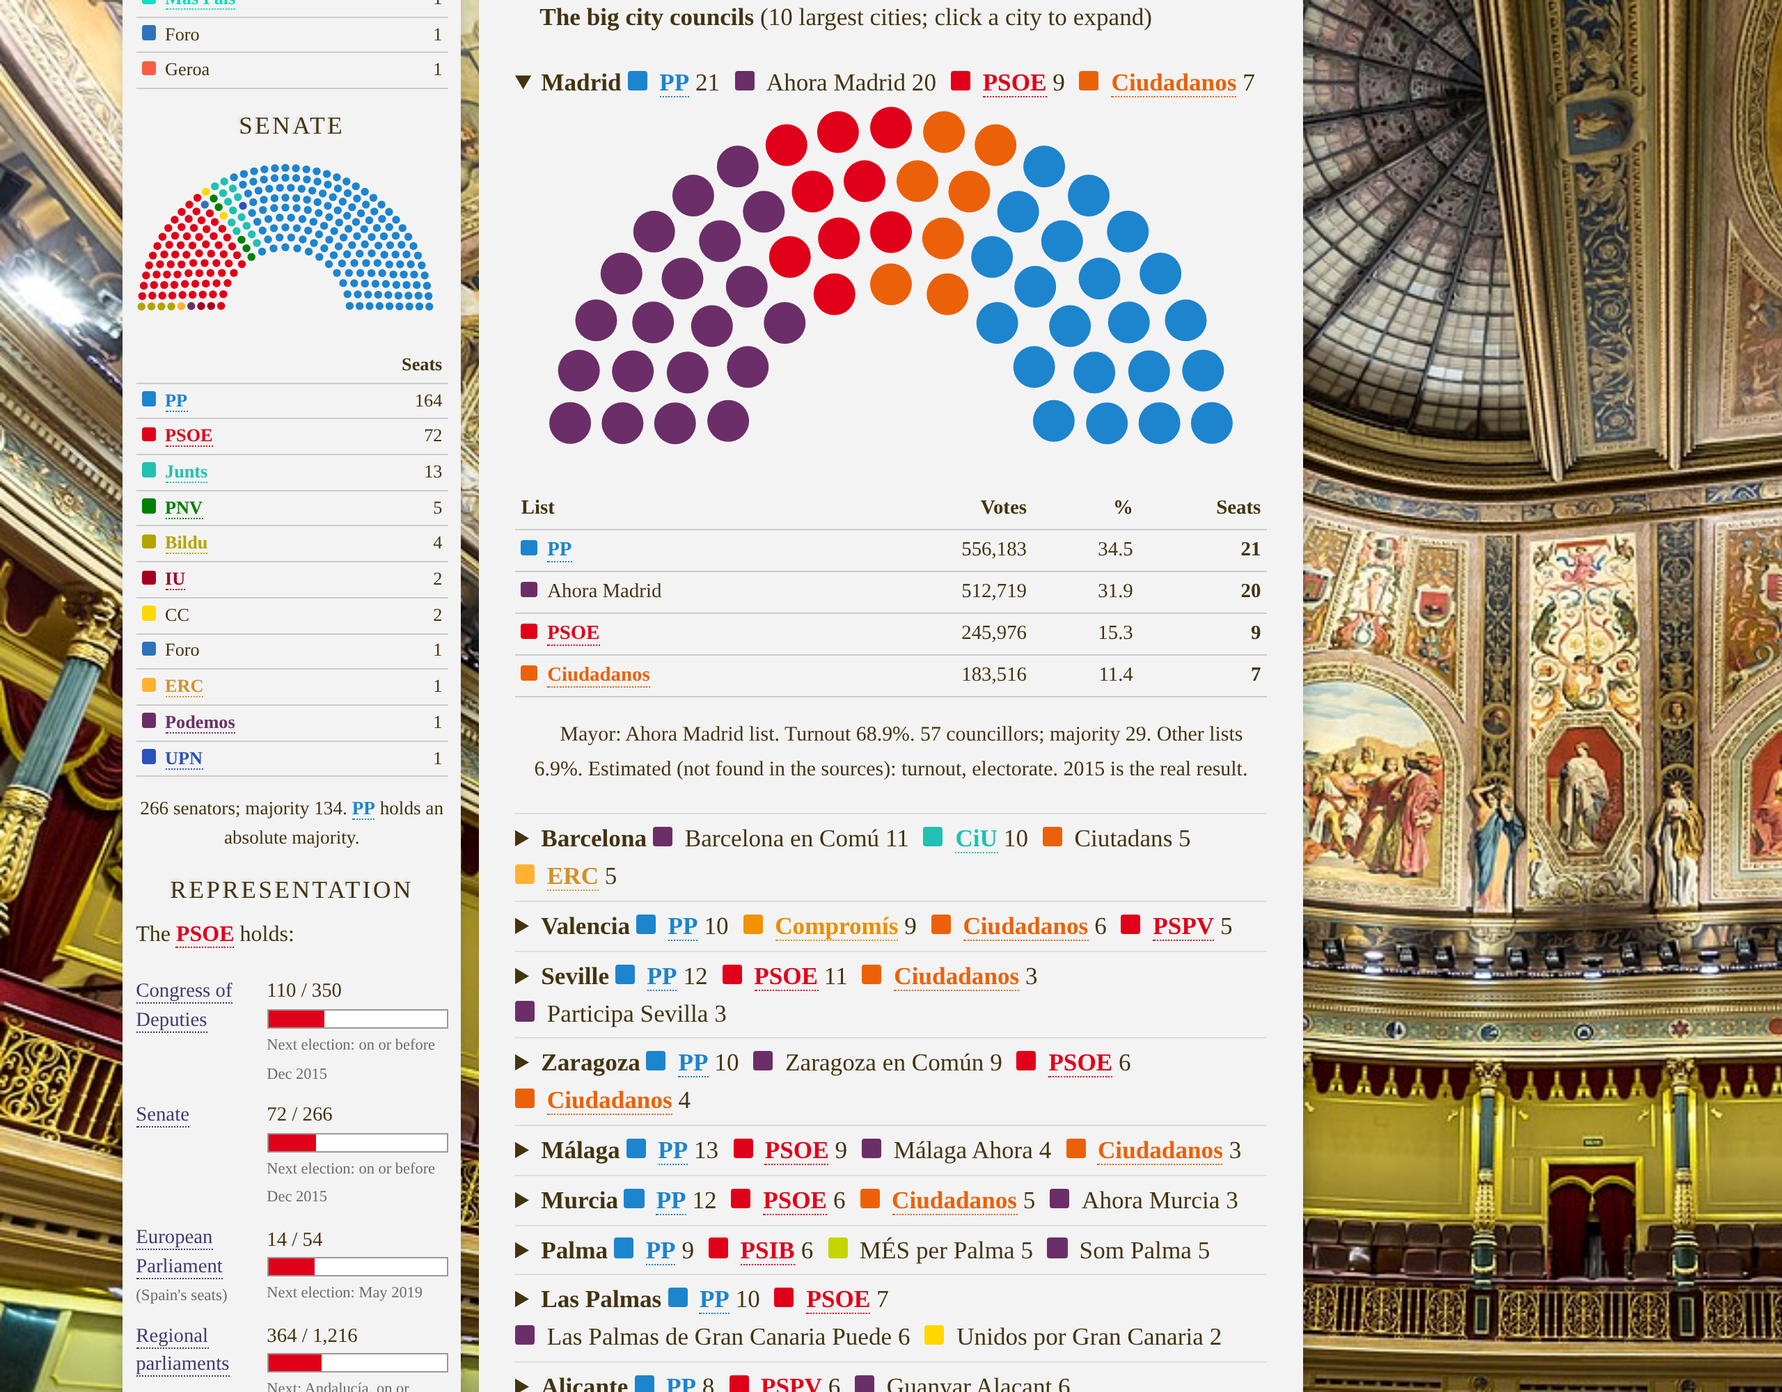
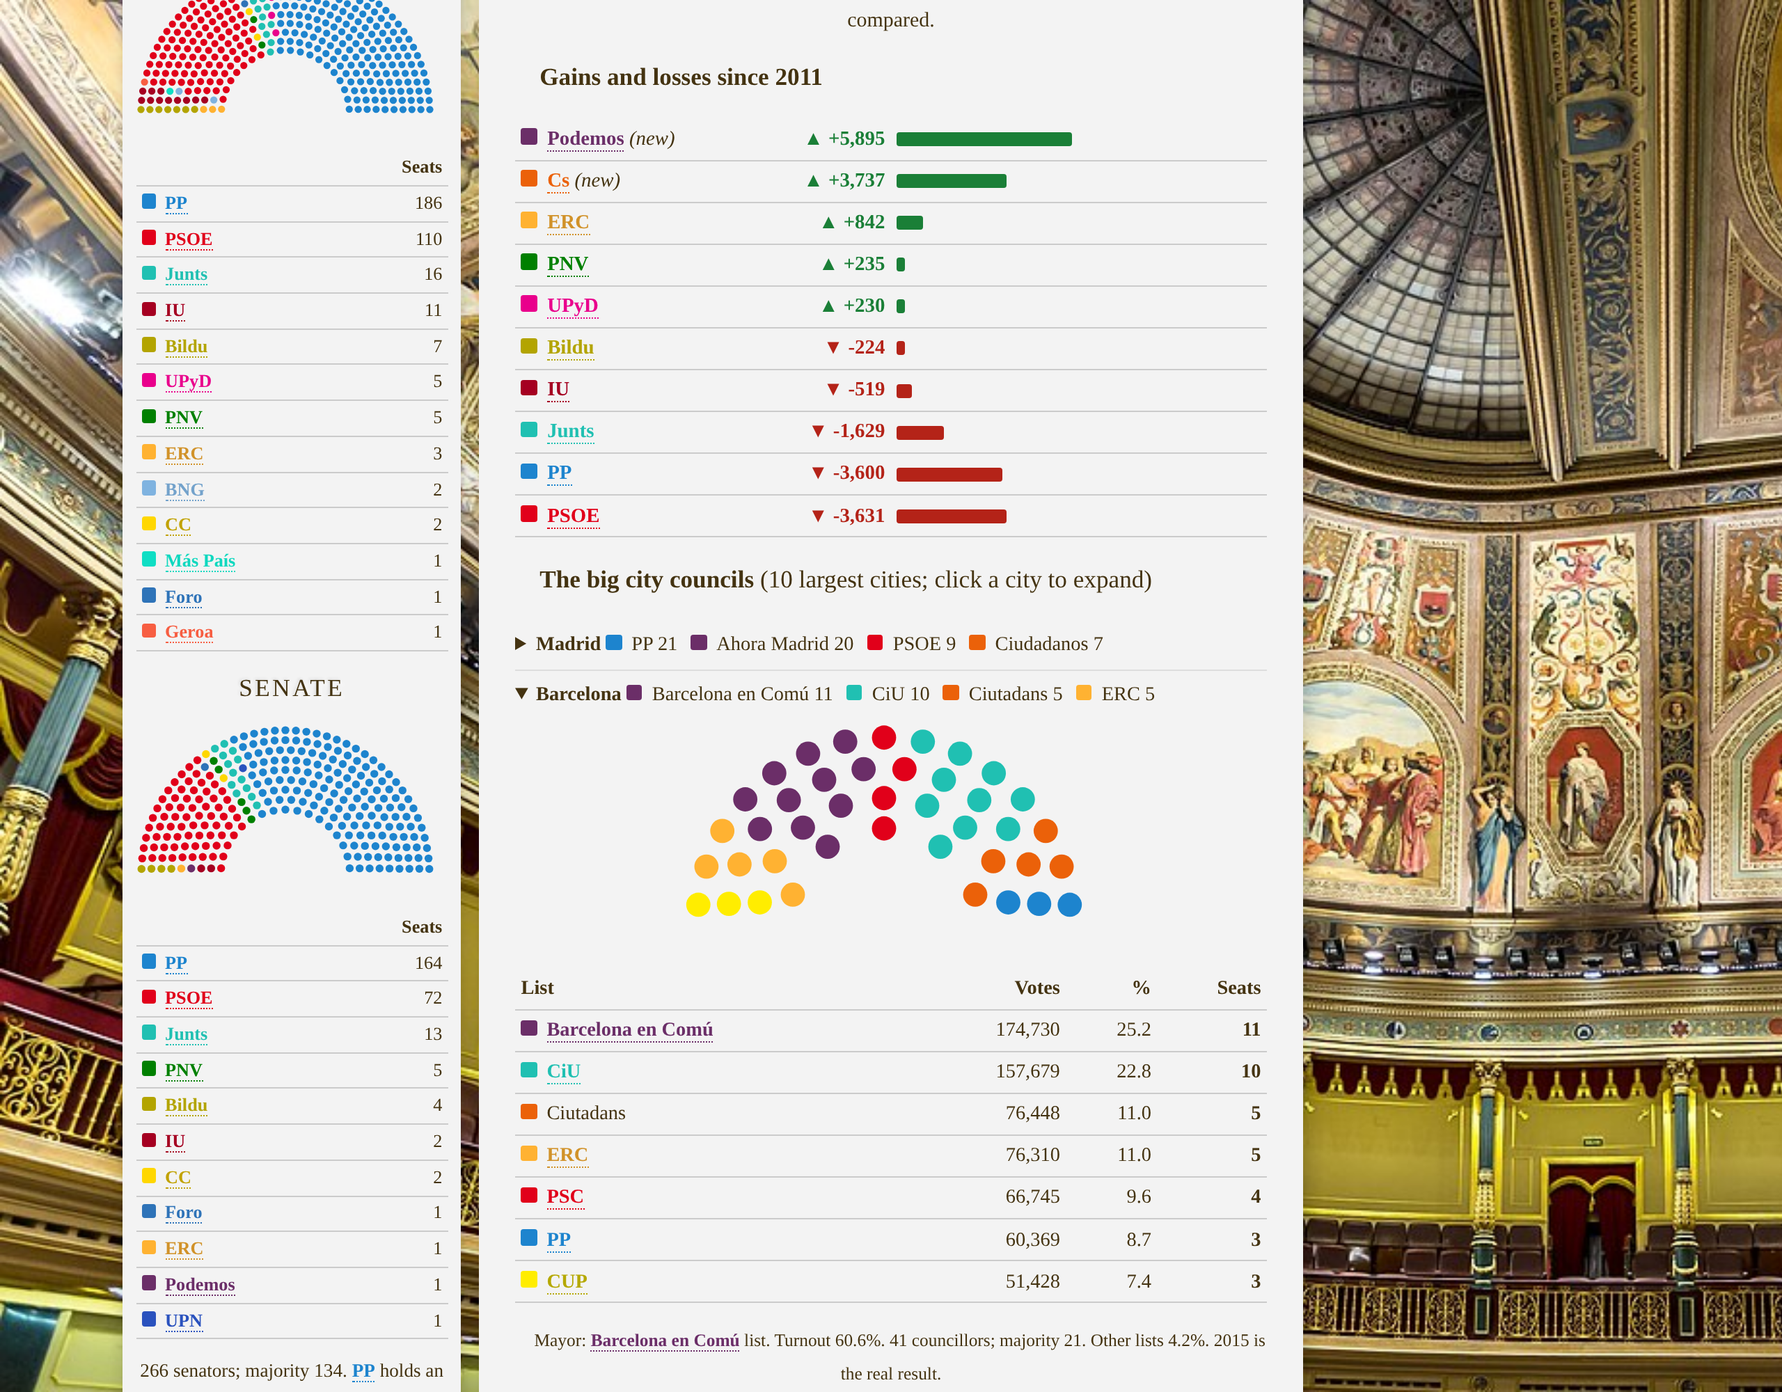
Cards for every party, alliance and Junts pel Sí; city panel diagram, text size and click fix
Claude-Session: https://claude.ai/code/session_016UUCxT4xEXWBLWXGxxaQNk

diff --git a/out/html/spain/entities.js b/out/html/spain/entities.js
@@ -411,10 +411,66 @@
     [['PSOE-M'], 'Partido Socialista Obrero Español de la Comunidad de Madrid', 'Madrid', 'The PSOE in the Madrid region, out of power there since 1995.', 'es:Partido Socialista de Madrid']
   ];
 
+
+  // Alliances, joint lists and smaller parties: their own card, in the
+  // colour of the party they belong to or are counted with.
+  // [names], party id (colour), full name, kind, note, Wikipedia title
+  var ORGS = [
+    // Podemos's alliances
+    [['Unidos Podemos'], 'up', 'Unidos Podemos', 'Electoral alliance, 2016', 'Podemos\'s joint list with Izquierda Unida and Equo for the June 2016 general election, led by Pablo Iglesias with Alberto Garzón. It won 71 seats, the same as Podemos and IU separately in 2015, and failed to overtake the PSOE.', 'Unidos Podemos'],
+    [['Unidas Podemos'], 'up', 'Unidas Podemos', 'Electoral alliance, 2019', 'The same alliance of Podemos, IU and Equo renamed for 2019. It entered the coalition government with the PSOE in January 2020.', 'Unidas Podemos'],
+    [['Sumar'], 'up', 'Sumar', 'Electoral alliance, 2023', 'Yolanda Díaz\'s platform, joined by Podemos, IU, Más País, Compromís, the Comuns and others for the July 2023 election. Podemos left it in December 2023.', 'Sumar (electoral platform)'],
+    [['En Comú Podem'], 'up', 'En Comú Podem', 'Catalan alliance', 'The Catalan alliance of Podemos with ICV, EUiA and Barcelona en Comú, led by Xavier Domènech: first in Catalonia in the 2015 and 2016 general elections.', 'En Comú Podem'],
+    [['Catalunya en Comú', 'Comuns'], 'up', 'Catalunya en Comú', 'Catalan party', 'Ada Colau\'s party (2017), heir of ICV and Barcelona en Comú; allied with Podemos in Catalunya en Comú–Podem.', 'Catalunya en Comú'],
+    [['Catalunya Sí que es Pot'], 'up', 'Catalunya Sí que es Pot', 'Catalan alliance, 2015', 'The alliance of Podemos, ICV and EUiA for the September 2015 Catalan election. It won 11 seats, below expectations.', 'Catalunya Sí que es Pot'],
+    [['En Marea'], 'up', 'En Marea', 'Galician alliance', 'The Galician alliance of Podemos, Anova, Esquerda Unida and the city "mareas": second in Galicia in the 2015 and 2016 general elections.', 'En Marea'],
+    [['Elkarrekin Podemos'], 'up', 'Elkarrekin Podemos', 'Basque alliance', 'Podemos with Ezker Anitza-IU and Equo in the Basque Country (2016 onwards).', 'Elkarrekin Podemos'],
+    [['Adelante Andalucía'], 'aa', 'Adelante Andalucía', 'Andalusian alliance, 2018', 'Podemos Andalucía (Teresa Rodríguez) and IU (Antonio Maíllo) together for the December 2018 Andalusian election: 17 seats. Rodríguez later took the name for her own party.', 'Adelante Andalucía'],
+    [['Compromís–Podemos', 'És el moment', 'A la valenciana'], 'up', 'Compromís–Podemos–És el moment', 'Valencian alliance', 'Compromís and Podemos together in the Valencian Community for the 2015 and 2016 general elections.', 'Compromís–Podemos–És el moment'],
+    [['Ahora Madrid'], 'up', 'Ahora Madrid', 'Municipal alliance (Madrid)', 'Manuela Carmena\'s platform for the 2015 Madrid city election, built by Podemos with Ganemos Madrid and parts of IU and Equo. Mayor 2015–19; it became Más Madrid in 2019.', 'Ahora Madrid'],
+    [['Barcelona en Comú'], 'up', 'Barcelona en Comú', 'Municipal alliance (Barcelona)', 'Ada Colau\'s platform (2015), with ICV-EUiA, Podemos, Equo and Procés Constituent. Mayor 2015–23.', 'Barcelona en Comú'],
+    [['Zaragoza en Común'], 'up', 'Zaragoza en Común', 'Municipal alliance (Zaragoza)', 'Pedro Santisteve\'s platform (2015), with Podemos, IU, Equo and others. Mayor 2015–19.', 'es:Zaragoza en Común'],
+    [['València en Comú'], 'up', 'València en Comú', 'Municipal alliance (Valencia)', 'The Podemos-backed list in Valencia in 2015 (3 seats); it backed Joan Ribó of Compromís as mayor.', 'es:València en Comú'],
+    [['Participa Sevilla'], 'up', 'Participa Sevilla', 'Municipal alliance (Seville)', 'The Podemos-backed list in Seville in 2015 (3 seats); it backed the socialist Juan Espadas as mayor.', 'es:Participa Sevilla'],
+    [['Málaga Ahora'], 'up', 'Málaga Ahora', 'Municipal alliance (Málaga)', 'The Podemos-backed list in Málaga in 2015 (4 seats).', 'es:Málaga Ahora'],
+    [['Som Palma'], 'up', 'Som Palma', 'Municipal alliance (Palma)', 'The Podemos-backed list in Palma in 2015 (5 seats); part of the left-wing pact that governed the city.', 'es:Som Palma'],
+    [['Guanyar Alacant'], 'up', 'Guanyar Alacant', 'Municipal alliance (Alicante)', 'The Podemos-backed list in Alicante in 2015 (6 seats), with EU; part of the "tripartito" that governed until 2018.', 'es:Guanyar Alacant'],
+    [['Cambiemos Murcia'], 'iu', 'Cambiemos Murcia', 'Municipal alliance (Murcia)', 'The list of IU, Equo and citizen groups in Murcia in 2015 (3 seats).', 'es:Cambiemos Murcia'],
+    [['Ahora Murcia'], 'up', 'Ahora Murcia', 'Municipal alliance (Murcia)', 'Podemos\'s list in Murcia in 2015 (3 seats).', 'es:Ahora Murcia'],
+    [['Las Palmas de Gran Canaria Puede', 'LPGC Puede'], 'up', 'Las Palmas de Gran Canaria Puede', 'Municipal alliance (Las Palmas)', 'The Podemos-backed list in Las Palmas in 2015 (6 seats); part of the city\'s left-wing government.', 'es:Las Palmas de Gran Canaria Puede'],
+    [['Málaga para la Gente'], 'iu', 'Málaga para la Gente', 'Municipal list (Málaga)', 'Izquierda Unida\'s list in Málaga (2 seats in 2015).', 'es:Málaga para la Gente'],
+    [['Más Madrid'], 'mp', 'Más Madrid', 'Party (Madrid)', 'Íñigo Errejón and Manuela Carmena\'s platform (2019), born from Ahora Madrid without Podemos. First in Madrid city in 2019.', 'Más Madrid'],
+    [['Más País'], 'mp', 'Más País', 'Party', 'Errejón\'s national party for the November 2019 election, a split from Podemos; later part of Sumar.', 'Más País'],
+    // the 2015 Catalan independence list
+    [['Junts pel Sí', 'JxSí'], 'jxsi', 'Junts pel Sí', 'Joint list, 2015–17', 'A temporary merger for the plebiscitary Catalan election of 27 September 2015: Artur Mas\'s Convergència and Oriol Junqueras\'s ERC ran together, with Demòcrates and MES, behind the independent Raül Romeva. It won 62 seats and governed with the CUP\'s support. The two parties ran separately again in December 2017 (Junts per Catalunya and ERC).', 'Junts pel Sí'],
+    // smaller and regional parties that can win seats
+    [['Coalición Canaria', 'CC'], 'cc', 'Coalición Canaria', 'Canarian nationalist party', 'The Canarian nationalist centre party, in the Canary Islands government almost continuously since 1993; one or two deputies in Congress, often decisive in investitures.', 'Canarian Coalition'],
+    [['Nueva Canarias', 'NC'], 'nc', 'Nueva Canarias', 'Canarian party', 'A centre-left Canarian nationalist split from CC (2005), strong in Gran Canaria; allied with the PSOE in 2019.', 'New Canaries'],
+    [['Unidos por Gran Canaria'], 'cc', 'Unidos por Gran Canaria', 'Island party', 'A centre-right Gran Canaria party, allied with CC.', 'es:Unidos por Gran Canaria'],
+    [['Agrupación Socialista Gomera', 'ASG'], 'asg', 'Agrupación Socialista Gomera', 'Island party', 'Casimiro Curbelo\'s party on La Gomera, a 2012 split from the PSOE; kingmaker in the Canarian parliament.', 'Gomera Socialist Group'],
+    [['Agrupación Herreña', 'AHI'], 'ahi', 'Agrupación Herreña Independiente', 'Island party', 'The independent party of El Hierro, allied with CC.', 'es:Agrupación Herreña Independiente'],
+    [['Foro Asturias', 'Foro'], 'foro', 'Foro Asturias', 'Asturian party', 'Francisco Álvarez-Cascos\'s 2011 split from the PP in Asturias; one deputy in Congress in 2015–16, in alliance with the PP.', 'Asturias Forum'],
+    [['Geroa Bai', 'Geroa'], 'geroa', 'Geroa Bai', 'Navarrese party', 'Uxue Barkos\'s Basque nationalist coalition in Navarre, around the PNV; President of Navarre 2015–19, then in government with the PSN.', 'Geroa Bai'],
+    [['UPN', 'NA+', 'Navarra Suma'], 'upn', 'Unión del Pueblo Navarro / Navarra Suma', 'Navarrese party', 'The Navarrese centre-right regionalist party, the PP\'s ally in Navarre; ran with the PP and Cs as Navarra Suma (NA+) in 2019.', 'Navarrese People\'s Union'],
+    [['Partido Aragonés', 'PAR'], 'par', 'Partido Aragonés', 'Aragonese party', 'The centre-right Aragonese regionalist party, kingmaker in the Cortes de Aragón for decades.', 'Aragonese Party'],
+    [['Chunta Aragonesista', 'CHA'], 'cha', 'Chunta Aragonesista', 'Aragonese party', 'The left-wing Aragonese nationalist party; allied with the PSOE and in the Aragonese government 2019–23.', 'Chunta Aragonesista'],
+    [['Teruel Existe', 'TE'], 'te', 'Teruel Existe', 'Provincial platform', 'The citizens\' platform of "empty Spain" in Teruel; one deputy from 2019, whose vote invested Sánchez in January 2020.', 'Teruel Existe'],
+    [['Soria ¡Ya!', 'Soria Ya'], 'sy', 'Soria ¡Ya!', 'Provincial platform', 'The Soria platform modelled on Teruel Existe: three seats in the Cortes of Castilla y León in 2022.', 'Soria ¡Ya!'],
+    [['Unión del Pueblo Leonés', 'UPL'], 'upl', 'Unión del Pueblo Leonés', 'Leonese party', 'The party for a separate León region within Castilla y León.', 'Leonese People\'s Union'],
+    [['Por Ávila', 'XAV'], 'xav', 'Por Ávila', 'Provincial party', 'A provincial party in Ávila, a split from the PP.', 'es:Por Ávila'],
+    [['Més per Mallorca', 'MÉS per Mallorca', 'MÉS per Palma', 'Més'], 'mes', 'Més per Mallorca', 'Majorcan party', 'The left-wing Majorcan nationalist party; partner of the PSIB in the Balearic governments of 2015–23.', 'Més per Mallorca'],
+    [['Més per Menorca', 'MxMe'], 'mxme', 'Més per Menorca', 'Menorcan party', 'The left-wing nationalist party of Menorca, allied with Més per Mallorca.', 'Més per Menorca'],
+    [['El Pi'], 'elpi', 'El Pi – Proposta per les Illes', 'Balearic party', 'A centre-right Balearic regionalist party (2013).', 'El Pi'],
+    [['PACMA'], 'pacma', 'PACMA', 'Animal rights party', 'The Animalist Party Against Mistreatment of Animals: a steady 1% nationally, never a deputy.', 'PACMA'],
+    [['Pedro Sánchez List', 'PSL'], 'ps', 'Pedro Sánchez List', 'Party (game only)', 'The party Sánchez founds in this game if he leaves the PSOE. It never existed.', null],
+    [['Podemos (2023)'], 'pod', 'Podemos', 'Party', 'Podemos after its break with Sumar in December 2023, led by Ione Belarra.', 'Podemos (Spanish political party)'],
+    [['CiU', 'Convergència', 'DL'], 'junts', 'Convergència i Unió / Democràcia i Llibertat', 'Catalan party', 'Artur Mas\'s centre-right Catalan nationalist federation; CiU broke up in 2015, Convergència ran as Democràcia i Llibertat in December 2015, became the PDeCAT in 2016 and Junts per Catalunya in 2017.', 'Convergence and Union']
+  ];
+
   // party names as they appear in the text
   var PARTY_NAMES = [
     [['PSOE'], 'psoe'], [['PP', "People's Party", 'Partido Popular', 'PPC', 'PPdeG'], 'pp'],
-    [['Podemos', 'Unidas Podemos', 'Unidos Podemos', 'Sumar', 'En Comú Podem', 'Catalunya en Comú', 'En Marea', 'Elkarrekin Podemos', 'Comuns'], 'up'], [['Ciudadanos', 'Cs'], 'cs'], [['Vox'], 'vox'],
+    [['Podemos', 'Unidas Podemos', 'Unidos Podemos', 'Sumar', 'En Comú Podem', 'Catalunya en Comú', 'En Marea', 'Elkarrekin Podemos', 'Comuns'], 'up'], [['Ciudadanos', 'Cs', 'Ciutadans'], 'cs'], [['Vox'], 'vox'],
     [['IU', 'Izquierda Unida'], 'iu'], [['ERC'], 'erc'], [['Junts', 'JxCat', 'Convergència', 'CiU'], 'junts'],
     [['PNV'], 'pnv'], [['EH Bildu', 'Bildu'], 'bildu'], [['CUP'], 'cup'], [['Coalición Canaria'], 'cc'],
     [['Más País'], 'mp'], [['Compromís'], 'compromis'], [['UPN'], 'upn'], [['PRC'], 'prc'], [['BNG'], 'bng'],
@@ -659,9 +715,38 @@
   AFFILIATES.forEach(function (a, i) {
     a[0].forEach(function (n) { INDEX[n] = { kind: 'affiliate', i: i }; names.push(n); });
   });
+  ORGS.forEach(function (o, i) {
+    o[0].forEach(function (n) { if (!INDEX[n]) { names.push(n); } INDEX[n] = { kind: 'org', i: i }; });
+  });
   TOPICS.forEach(function (t, i) {
     t[0].forEach(function (n) { if (!INDEX[n]) { INDEX[n] = { kind: 'topic', i: i }; names.push(n); } });
   });
+
+  // Any other party that has won seats in a regional parliament in the
+  // data gets a plain card: its name, and where it sits.
+  var SEAT_PARTIES = {};
+  (function () {
+    var R = null;
+    try { R = (typeof module !== 'undefined' && module.exports) ? require('./regional_data.js') : root.SPAIN_REGIONAL_DATA; } catch (e) { R = null; }
+    var UI = root.SpainUI || ((typeof module !== 'undefined' && module.exports) ? require('./spain_ui.js') : null);
+    if (!R || !R.regions || !UI) { return; }
+    Object.keys(R.regions).forEach(function (reg) {
+      Object.keys(R.regions[reg]).forEach(function (date) {
+        var e = R.regions[reg][date], tot = {}, all = 0;
+        Object.keys(e.districts || {}).forEach(function (d) {
+          e.districts[d].lists.forEach(function (l) { tot[l[0]] = (tot[l[0]] || 0) + l[2]; all += l[2]; });
+        });
+        Object.keys(tot).forEach(function (id) {
+          if (tot[id] / all >= 0.025 && !SEAT_PARTIES[id]) { SEAT_PARTIES[id] = reg; }
+        });
+      });
+    });
+    Object.keys(SEAT_PARTIES).forEach(function (id) {
+      [UI.partyName(id), UI.shortName(id)].forEach(function (n) {
+        if (n && n.length > 1 && !INDEX[n]) { INDEX[n] = { kind: 'seatparty', id: id }; names.push(n); }
+      });
+    });
+  })();
   names.sort(function (a, b) { return b.length - a.length; });
   var esc = function (s) { return s.replace(/[.*+?^${}()|[\]\\]/g, '\\$&'); };
   var RE = null;
@@ -682,6 +767,13 @@
       var fk = FACTION_OF[p[0][0]], fl = fk && FACTION_LABEL[p[1]] ? FACTION_LABEL[p[1]][fk] : (FACTION_NOTE[p[0][0]] || '');
       var wing = fl ? 'Faction: ' + fl + (p[3] ? ' — ' + p[3] : '') : p[3];
       return { kind: 'person', name: p[0][0], party: p[1], role: p[2], wing: wing, wiki: title, img: imgUrl(PERSON_IMG[p[0][0]]) };
+    }
+    if (hit.kind === 'seatparty') {
+      return { kind: 'org', party: hit.id, name: (root.SpainUI || require('./spain_ui.js')).partyName(hit.id), sub: 'Regional party (' + SEAT_PARTIES[hit.id] + ')', note: 'Has won seats in the regional parliament of ' + SEAT_PARTIES[hit.id] + '.', wiki: null };
+    }
+    if (hit.kind === 'org') {
+      var og = ORGS[hit.i];
+      return { kind: 'org', party: og[1], name: og[2], sub: og[3], note: og[4], wiki: og[5] };
     }
     if (hit.kind === 'affiliate') {
       var af = AFFILIATES[hit.i];
@@ -808,6 +900,10 @@
     if (info.kind === 'person') {
       return '<div class="sp-ent-head">' + (info.img ? '<img class="sp-ent-photo" src="' + info.img + '" alt="">' : '') + badge + '<div><strong>' + info.name + '</strong><br>' + pi.name +
         '</div></div><div>' + info.role + '</div>' + (info.wing ? '<div class="sp-ent-wing">' + info.wing + '</div>' : '') + more;
+    }
+    if (info.kind === 'org') {
+      var lg = PARTY_IMG[info.party] ? '<img class="sp-ent-plogo" src="' + imgUrl(PARTY_IMG[info.party]) + '" alt="">' : '<span class="sp-ent-logo" style="background:' + pi.color + '">' + pi.short + '</span>';
+      return '<div class="sp-ent-head">' + lg + '<div><strong>' + info.name + '</strong><br>' + info.sub + '</div></div><div class="sp-ent-desc">' + info.note + '</div>' + more;
     }
     if (info.kind === 'affiliate') {
       return '<div class="sp-ent-head">' + badge + '<div><strong>' + info.name + '</strong><br>Regional federation of the PSOE: ' + info.region +

diff --git a/out/html/spain/game_state.js b/out/html/spain/game_state.js
@@ -3759,8 +3759,8 @@
       var won = c.lists.filter(function (x) { return x.seats > 0; });
       var pm = {}; (c.prev || []).forEach(function (p) { pm[p[0]] = p[1]; });
       var summary = won.slice(0, 4).map(function (x) { return '<span class="sp-vote-chip"><span class="sp-swatch" style="background:' + UI.partyColor(x.party) + '"></span>' + x.label + ' ' + x.seats + '</span>'; }).join(' ');
-      html += '<details class="sp-city"><summary><b>' + name + '</b> ' + summary + '</summary>' +
-        '<svg id="' + id + '-c' + i + '" class="sp-hemicycle"></svg>' +
+      html += '<details class="sp-city"><summary class="sp-no-ent"><b>' + name + '</b> ' + summary + '</summary>' +
+        '<div class="sp-city-chart"><svg id="' + id + '-c' + i + '" class="sp-hemicycle"></svg></div>' +
         '<table class="sp-results sp-compact"><thead><tr><th>List</th><th class="sp-num">Votes</th><th class="sp-num">%</th><th class="sp-num">Seats</th>' + (c.prev ? '<th class="sp-num">±</th>' : '') + '</tr></thead><tbody>' +
         c.lists.map(function (x) {
           var d = c.prev ? (x.seats - (pm[x.label] || 0)) : null;

diff --git a/out/html/game.css b/out/html/game.css
@@ -623,4 +623,8 @@ a.sp-ent { text-decoration: none; }
 .sp-swing-bar.down { background: #b42318; }
 details.sp-city { border-bottom: 1px solid #ddd; padding: 4px 0; }
 details.sp-city summary { cursor: pointer; }
-details.sp-city .sp-hemicycle { max-width: 360px; display: block; margin: 6px auto; }
+details.sp-city { font-size: 0.85em; }
+details.sp-city summary { font-size: 0.95em; }
+details.sp-city .sp-city-chart { width: 300px; max-width: 100%; margin: 6px auto; overflow: hidden; }
+details.sp-city .sp-hemicycle { width: 100%; display: block; }
+details.sp-city table { font-size: 0.95em; }

diff --git a/docs/design/00-core-rules.md b/docs/design/00-core-rules.md
@@ -947,3 +947,15 @@ Municipal results, and the Regions tab, now list Madrid, Barcelona, Valencia, Se
     - Más Madrid stays too strong in 2023 (17 against 12). In the simulation it keeps the mayoralty in 2019 because the right falls one seat short.
     - Zaragoza en Común holds up better than it really did.
     - Las Palmas goes to the PP in 2023, where the PSOE really won.
+
+### 7.51 Cards for every party and alliance; city panel fixes
+
+- **Every party has a hover card:** every party that can win seats in Congress, the Senate or a regional parliament now has one. Before, the short names in the Congress table (CC, Foro, Geroa) had none.
+  - **Alliances** get their own card in Podemos's colour, saying how Podemos is part of them: Unidos and Unidas Podemos, Sumar, En Comú Podem, Catalunya en Comú, Catalunya Sí que es Pot, En Marea, Elkarrekin Podemos, Adelante Andalucía, Compromís–Podemos, and the municipal platforms (Ahora Madrid, Barcelona en Comú, Zaragoza en Común and others).
+  - **Junts pel Sí** has its own card explaining the 2015 merger of Convergència and ERC and their separation in 2017.
+  - **Small and regional parties** have their own cards: CC, NC, ASG, AHI, Foro, Geroa Bai, UPN/NA+, PAR, CHA, Teruel Existe, Soria ¡Ya!, UPL, Por Ávila, Més, El Pi, PACMA, CiU/DL.
+  - **Fallback:** any other list that has taken 2.5% or more in a regional election in the data gets a plain card naming its region.
+- **City panel:**
+  - the seat diagram sits in a fixed 300px frame instead of being clipped;
+  - the text is smaller;
+  - city headings no longer contain links, so clicking a party name expands the city instead of opening Wikipedia.
